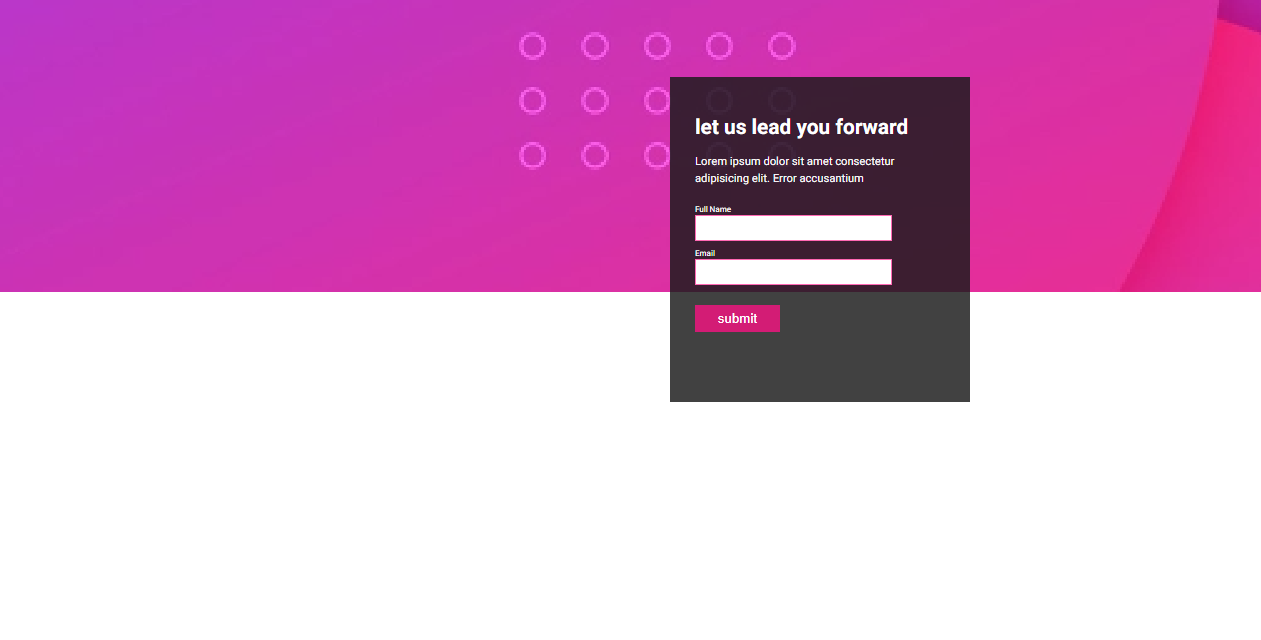
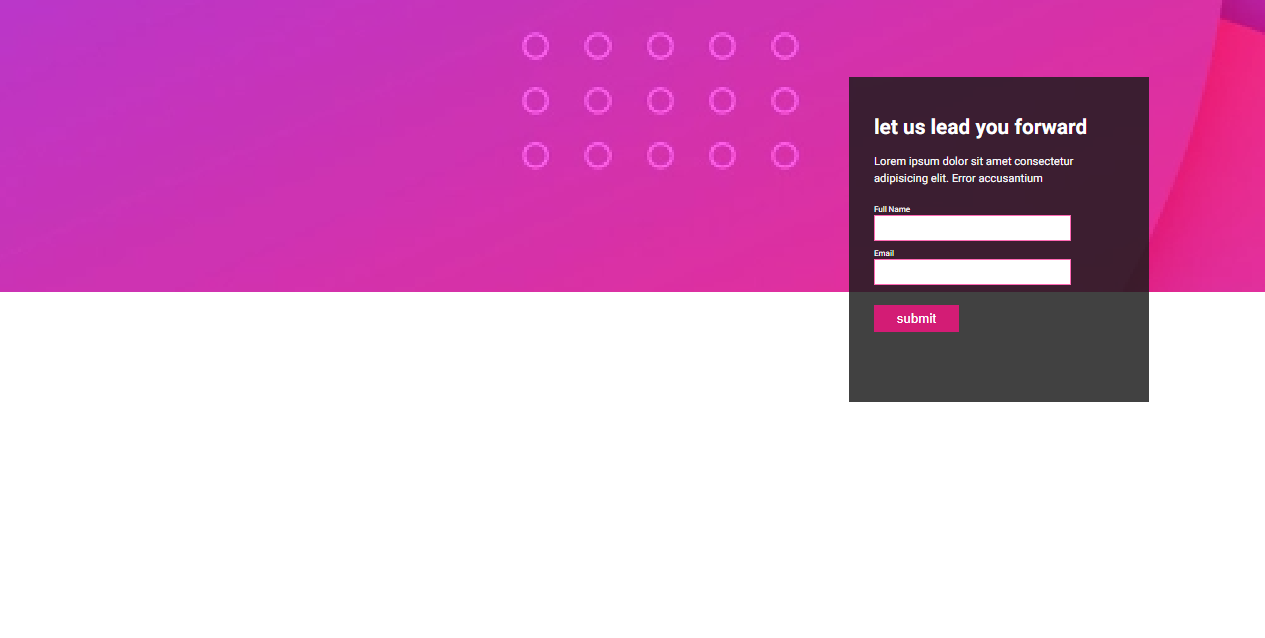
proj here & now

Changed region(s): [[0.5258, 0.1191, 0.9278, 0.6552]]

diff --git a/projects/projHere/style/styleHere.css b/projects/projHere/style/styleHere.css
@@ -1,0 +1,105 @@
+* {
+    margin: 0;
+    padding: 0;
+    box-sizing: border-box;
+}
+
+body {
+    background: transparent linear-gradient(180deg, #281EFF 0%, #2DFF8C 100%);
+    background-repeat: no-repeat;
+    width: 100vw;
+    height: 100vh;
+}
+
+.container {
+    width: 100vw;
+    height: 100vh;
+}
+
+/* #text {
+    display: flex;
+    flex-direction: column;
+    justify-content: center;
+} */
+
+#text h1 {
+    font: normal normal normal 160px/231px Satisfy;
+    color: #FFFFFF;
+    text-shadow: 0px 0px 36px #00000087;
+    margin: 200px auto 0px;
+    text-align: center;
+}
+
+#text h2 {
+    text-align: center;
+    font: normal normal normal 32px/38px Varela Round;
+    color: #FFFFFF;
+    font-size: 1.5rem;
+}
+
+#text p {
+    text-align: center;
+    font: normal normal normal 16px/20px Varela Round;
+    color: #F9F9F9;
+    font-size: 0.8rem;
+}
+
+#formWrapper {
+    margin-top: 15px;
+}
+
+#formWrapper form #details {
+    display: flex;
+    justify-content: space-evenly;
+    /* margin-right: 15px; */
+}
+
+#formWrapper form #details .box {
+    margin: 0 10px;
+}
+
+#formWrapper form #details .box label {
+    display: block;
+    font: normal normal normal 16px/20px Varela Round;
+    /* color: #F9F9F9; */
+    color: black;
+    font-size: 0.7rem;
+}
+
+#formWrapper form #details .box input {
+    background-color: #F6F6F624;
+    background-repeat: no-repeat;
+    border: 1px solid #FFFFFF;
+    height: 27px;
+}
+
+.btn input {
+    /* padding: 0px 15px; */
+    /* margin: 10px; */
+    font-size: 0.6rem;
+    background-color: white;
+    border: 0;
+    width: 100px;
+    height: 27px;
+}
+
+#formWrapper form {
+    display: flex;
+    /* margin-left: 15px; */
+    /* margin-right: 10px; */
+    align-items: end;
+    justify-content: center;
+}
+
+@media (max-width:576px) {
+    #formWrapper form {
+        flex-direction: column;
+        /* align-items: center;
+        justify-content: center; */
+    }
+
+
+    #formWrapper form input {
+        margin-bottom: 10px;
+    }
+}

diff --git a/projects/projHere/projHere.html b/projects/projHere/projHere.html
@@ -1,0 +1,48 @@
+<!DOCTYPE html>
+<html lang="en">
+
+<head>
+    <meta charset="UTF-8">
+    <meta name="viewport" content="width=device-width, initial-scale=1.0">
+    <title>proj here & now</title>
+    <link rel="stylesheet" href="./style/styleHere.css">
+    <link
+        href="https://fonts.googleapis.com/css2?family=Heebo:wght@100..900&family=Poetsen+One&family=Satisfy&display=swap"
+        rel="stylesheet">
+    <link
+        href="https://fonts.googleapis.com/css2?family=Heebo:wght@100..900&family=Poetsen+One&family=Satisfy&family=Varela&display=swap"
+        rel="stylesheet">
+</head>
+
+<body>
+    <div class="container">
+        <section id="text">
+            <h1>Here & Now</h1>
+            <h2>we wanted to invite you to enjoy lots of gifts</h2>
+            <p>
+                Lorem ipsum dolor sit amet consectetur adipisicing elit. Maiores optio dolorum repellendus quibusdam
+                repudiandae, totam nihil iure voluptates, nobis quis doloremque! Eos, sunt?
+            </p>
+        </section>
+        <section id="formWrapper">
+            <form action="">
+                <div id="details">
+                    <div class="box">
+                        <label for="name">Name</label>
+                        <input type="text" id="name">
+                    </div>
+                    <div class="box">
+                        <label for="email">Email</label>
+                        <input type="email" id="email">
+                    </div>
+                </div>
+                <div class="btn">
+                    <label for=""></label>
+                    <input type="submit" value="update me">
+                </div>
+            </form>
+        </section>
+    </div>
+</body>
+
+</html>

diff --git a/projects/projHere/projHereTransition.html b/projects/projHere/projHereTransition.html
@@ -4,8 +4,8 @@
 <head>
     <meta charset="UTF-8">
     <meta name="viewport" content="width=device-width, initial-scale=1.0">
-    <title>projPinkTransition</title>
-    <link rel="stylesheet" href="./style/stylePinkTransition.css">
+    <title>projHereTransition</title>
+    <link rel="stylesheet" href="./style/styleHereTransition.css">
     <link rel="shortcut icon" href="./../../images/personalImage.jpg">
 </head>
 
@@ -34,20 +34,18 @@
             officia!
         </p>
         <div id="watchProj">
-            <a href="./projPink.html">watch project</a>
-            <a href="./downloads/" download="projPink.zip">download project</a>
+            <a href="./projHere.html">watch project</a>
+            <a href="./downloads/" download="projHere.zip">download project</a>
         </div>
     </section>
 
     <section id="icons">
         <a href="#gallerySection"><img src="./../../images/htmlIcon.png" alt="html icon"></a>
         <a href="#gallerySection"><img src="./../../images/cssIcon.png" alt="css icon"></a>
-        <!--         <a href="#gallerySection"><img src="./../../images/bootstrapIcon.png" alt="bootstrap icon"></a>
-        <a href="#gallerySection"><img src="./../../images/sassIcon.png" alt="sass icon"></a> -->
     </section>
 
     <section id="projPic">
-        <img src="./../../images/projPink.png" alt="projPink">
+        <img src="./../../images/projHere.png" alt="projHere">
     </section>
 
     <footer>

diff --git a/index.html b/index.html
@@ -68,8 +68,6 @@
                 <section class="developIcons">
                     <img src="./images/htmlIcon.png" alt="html icon">
                     <img src="./images/cssIcon.png" alt="css icon">
-                    <img src="./images/bootstrapIcon.png" alt="bootstrap icon">
-                    <img src="./images/sassIcon.png" alt="sass icon">
                 </section>
                 <img src="./images/projPink.png" alt="proj1">
                 <section class="projDesc">
@@ -86,10 +84,8 @@
                 <section class="developIcons">
                     <img src="./images/htmlIcon.png" alt="html icon">
                     <img src="./images/cssIcon.png" alt="css icon">
-                    <img src="./images/bootstrapIcon.png" alt="bootstrap icon">
-                    <img src="./images/sassIcon.png" alt="sass icon">
                 </section>
-                <img src="./images/proj2.png" alt="proj2">
+                <img src="./images/projHere.png" alt="projHere">
                 <section class="projDesc">
                     <h3>Project #</h3>
                     <p>Lorem ipsum dolor sit amet consectetur adipisicing elit. Error non, nesciunt libero quam vel
